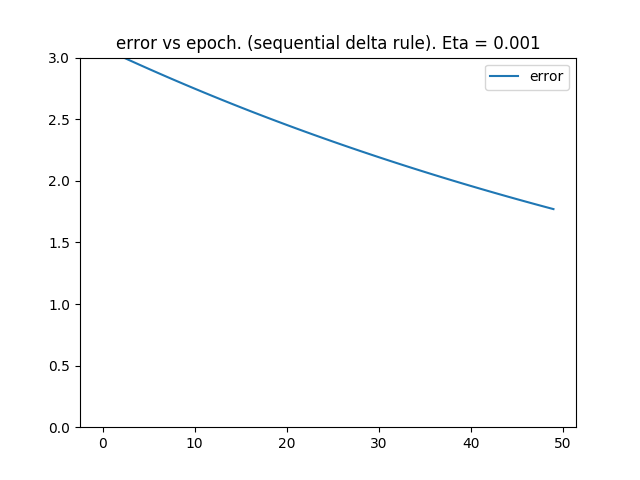
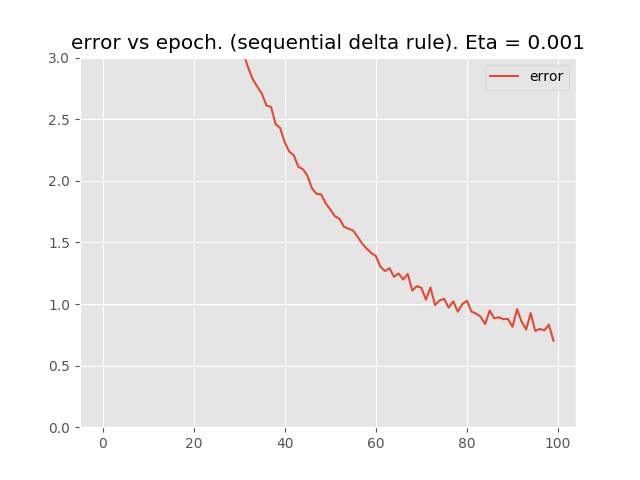
added competitive

diff --git a/02/RBFN.py b/02/RBFN.py
@@ -13,7 +13,7 @@ class RBFN:
         self.mat_K = []
         self.nodes = 0
 
-    def train(self, X, T, nodes, vec_sigma, learning_rule, batch, epochs, eta, strategy, normalize = False):
+    def train(self, X, T, nodes, vec_sigma, learning_rule, batch, epochs, eta, strategy=None, normalize = False):
         """
         INPUT:
         @X - numpy array: representing the input data
@@ -92,6 +92,11 @@ class RBFN:
 
     def init_weights(self, X, strategy):
         centers = []
+        if strategy == None:
+            centers = [0, 0.9, 2.25, 3.9, 5.5, 6.2]
+            plt.plot(centers, 'r+', label='centers')
+            plt.legend()
+            plt.show()
         if strategy == "random_init":
             indices = list(range(len(X)))
             np.random.shuffle(indices)
@@ -104,34 +109,32 @@ class RBFN:
             centers = kmeans.cluster_centers_
             
         elif strategy == "competitive":
-#             indices = list(range(len(X)))
-#             np.random.shuffle(indices)
-#             for i in range(self.nodes):
-#                 centers.append(X[indices[i]][0])
-
             # random init weights
             centers = np.random.normal(0,1,self.nodes)
-            old_centers = np.copy(centers)
             #normalize weights
-            centers = centers / np.linalg.norm(centers)
+            centers = np.transpose(np.transpose(centers) / np.linalg.norm(centers))
+            old_centers = np.copy(centers)
             print(centers)
             alpha = 0.2
             dist = []
             for i in range(100):
-                for x in X:
+                for j in range(len(X)):
+                    vec_x = X[np.random.randint(0,len(X)),:]
                     for c in centers:
-                        dist.append(np.sqrt((x-c)**2))
+                        dist.append(np.sqrt((vec_x[0]-c)**2))
                     dc = dist
                     min_index = np.argmin(dist)
-                    centers[min_index] += alpha * (x - centers[min_index])
+                    centers[min_index] += alpha * (vec_x[0] - centers[min_index])
                     # leaky learning
-                    for n in range(1):
-                        dc.pop(min_index)
+                    # if we use many nodes. it can be good to add leakage?? 
+                    for n in range(4):
+                        dc[min_index] = 9999999
+#                         dc.pop(min_index)
                         min_2_index = np.argmin(dc)
-                        centers[min_2_index] += alpha * (x - centers[min_2_index])
+                        centers[min_2_index] += alpha * (vec_x - centers[min_2_index])
                         min_index = min_2_index
 #                     centers = self.update_centers(min_index,centers,x)
-#                     centers = centers / np.linalg.norm(centers)
+#                     centers = np.transpose(np.transpose(centers) / np.linalg.norm(centers))
                     dist = []
             plt.plot(old_centers, 'b+', label='start_centers')
             plt.plot(centers, 'r+', label='new_centers')

diff --git a/02/part_one_competitive.py b/02/part_one_competitive.py
@@ -10,7 +10,7 @@ sin_T_train = np.sin(2*X_train).reshape(-1, 1)
 sin_T_train = sin_T_train + \
               np.random.normal(0, 0.1, len(sin_T_train)).reshape(-1, 1)
 
-# Test dat
+# Test data
 X_test = np.arange(0.05, 2*np.pi, 0.1).reshape(-1, 1)
 # X_test = X_test + np.random.normal(0, 0.1, len(X_test)).reshape(-1, 1)
 sin_T_test = np.sin(2*X_test).reshape(-1, 1)
@@ -19,12 +19,12 @@ sin_T_test = sin_T_test + \
 
 # Parameter settings for MLP
 input_dim = X_train.shape[1]
-nodes = 11
+nodes = 15
 
 # Parameter settings for RBFN
 learning_rule = 'delta'
 batch = False
-epochs = 1500
+epochs = 500
 eta = 0.01
 strategy = 'competitive'
 vec_sigma = [0.5] * nodes
@@ -35,8 +35,28 @@ R.train(X_train, sin_T_train, nodes, vec_sigma,
         learning_rule, batch,
         epochs, eta, strategy, normalize)
 
+# X_train = np.transpose(np.transpose(X_train)/np.linalg.norm(X_train))
+# print(X_train)
 Y = R.predict(X_train)
 print(R.error(Y,sin_T_train))
 plt.plot(np.arange(0,2*np.pi, 0.1), Y)
 plt.plot(np.arange(0,2*np.pi, 0.1), sin_T_train)
 plt.show()
+
+# etas = [0.001, 0.01, 0.05, 0.1]
+# for eta in etas:
+#         vec_sigma = [0.5] * nodes
+#         R.train(X_train, sin_T_train,
+#                 nodes, vec_sigma, learning_rule,
+#                 batch, epochs, eta, strategy, normalize)
+# 
+        # fig = plt.figure()
+ax = plt.subplot(111)
+plt.title("error vs epoch. (sequential delta rule). Eta = "+str(eta))
+ax.plot(R.vec_errors,c='y', label="error")
+plt.ylim((0, 3))
+plt.legend()
+plt.show()
+
+
+

diff --git a/02/part_one_comparison.py b/02/part_one_comparison.py
@@ -12,23 +12,23 @@ import numpy as np
 X_train = np.arange(0, 2*np.pi, 0.1).reshape(-1, 1)
 # X_train = X_train + np.random.normal(0, 0.1, len(X_train)).reshape(-1, 1)
 sin_T_train = np.sin(2*X_train).reshape(-1, 1)
-sin_T_train = sin_T_train + \
-              np.random.normal(0, 0.1, len(sin_T_train)).reshape(-1, 1)
+# sin_T_train = sin_T_train + \
+#               np.random.normal(0, 0.1, len(sin_T_train)).reshape(-1, 1)
 
 # Test dat
 X_test = np.arange(0.05, 2*np.pi, 0.1).reshape(-1, 1)
 # X_test = X_test + np.random.normal(0, 0.1, len(X_test)).reshape(-1, 1)
 sin_T_test = np.sin(2*X_test).reshape(-1, 1)
-sin_T_test = sin_T_test + \
-             np.random.normal(0, 0.1, len(sin_T_test)).reshape(-1, 1)
-
+# sin_T_test = sin_T_test + \
+#              np.random.normal(0, 0.1, len(sin_T_test)).reshape(-1, 1)
+# 
 # Parameter settings for MLP
 input_dim = X_train.shape[1]
 nodes = 11
 
 # Parameter settings for RBFN
-learning_rule = 'least_squares'
-batch = True
+learning_rule = 'delta'
+batch = False
 epochs = 1500
 eta = 0.01
 strategy = 'k_means'

diff --git a/02/part_one.py b/02/part_one.py
@@ -5,7 +5,7 @@ import matplotlib.pyplot as plt
 import matplotlib.patches as mpatches
 
 
-def main(eta):
+def main():
     """
     Assignment - Part 1,
 
@@ -31,8 +31,8 @@ def main(eta):
     vec_mu = [0, 0.9, 2.25, 3.9, 5.5, 6.2]
     #variance of each basis function
     vec_sigma = [.5] * nodes
-    epochs = 50
-#     eta = 0.01
+    epochs = 500
+    eta = 0.04
     # Create a RBF network
     R = RBFN(eta)
     # train the network
@@ -93,5 +93,5 @@ def main(eta):
 #     plt.show()
 
 
-# if __name__ == '__main__':
-#     main()
+if __name__ == '__main__':
+    main()

diff --git a/02/part_one_noise.py b/02/part_one_noise.py
@@ -63,6 +63,18 @@ def main():
         plt.ylim((0, 3))
         plt.legend()
         plt.show()
+#     eta = 0.01
+#     nodes = 6
+#     vec_sigma = [0.5]*6
+#     R.train(X_train, sin_T_train, nodes, vec_sigma,
+#              learning_rule, batch,
+#              epochs, eta, strategy)
+#     Y = R.predict(X_train)
+#     print(R.error(Y, sin_T_train))
+#     plt.plot(Y)
+#     plt.plot(sin_T_train)
+#     plt.show()
+
 
 
 if __name__ == '__main__':
